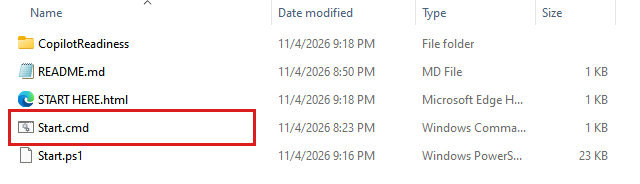
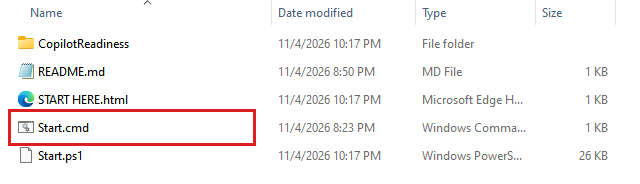
Fix the problems found in code review of second-PC setup
Waiting and sign-in:
- The wait for a new certificate no longer hides inside the setup screen's
  own countdown, so the 20 minute limit and three good sign-ins hold.
- It only applies to a certificate added in the last 30 minutes, and Stop
  ends it within a second.
- If the app's permissions were never accepted, the window asks you to
  press Accept instead of saying there is nothing to do.
- Wording says what is happening on this computer, and the box fits it.

Certificates on the app:
- Reads an app's certificates by asking for that app, as Microsoft documents.
- Reads the list back after changing it and restores anything missing, so
  two computers joining together both end up on it.
- Running setup again replaces this computer's certificate.
- A setup that fails after adding a certificate takes it back off.

Cleanup and guide:
- Removing an unused certificate now deletes its private key too.
- Errors over several lines stay out of the setup window.
- Retake the Tenant picture, and refuse to take or ship a broken one.

diff --git a/docs/setting-it-up.md b/docs/setting-it-up.md
@@ -53,13 +53,13 @@ From PowerShell, `./Start.ps1 -Tenant fabrikam` switches straight to that tenant
 
 ## Another PC
 
-Your tenant only needs one app, and each PC gets its own certificate for it. To scan from a second PC:
+Your tenant only needs one app, and each computer gets its own certificate for it. When you set up a second computer, the window tells you the app is already registered but this computer has no certificate yet, so it creates one and adds it. To scan from a second computer:
 
 1. [Install](install.md) on that PC, then double-click **Start.cmd** and type the same tenant name.
 2. Sign in as a **Global Administrator**. You'll be asked twice: once to check the tenant, and once to add this PC.
-3. Wait for the blue box to finish. This took a minute or two in our tests, and can take longer. Microsoft took about six minutes to fully settle, so a scan started straight away may pause by itself for a while. That is normal.
+3. Wait for the blue box to finish. This took a minute or two in our tests, and can take longer. Microsoft can take about six minutes to always accept a new certificate, so a scan started straight away may pause by itself for a while. That is normal.
 
-There's no **Accept** page this time, because the app's permissions were already accepted. Your other PCs keep working.
+There's normally no **Accept** page this time, because the app's permissions were already accepted. If the first setup stopped before they were, the window asks you to press **Accept**. Your other PCs keep working.
 
 Each PC keeps its own settings and scan results. If two PCs scan the same tenant at the same time, they share one allowance from Microsoft, so use **Normal** or **Gentle** pace.
 
